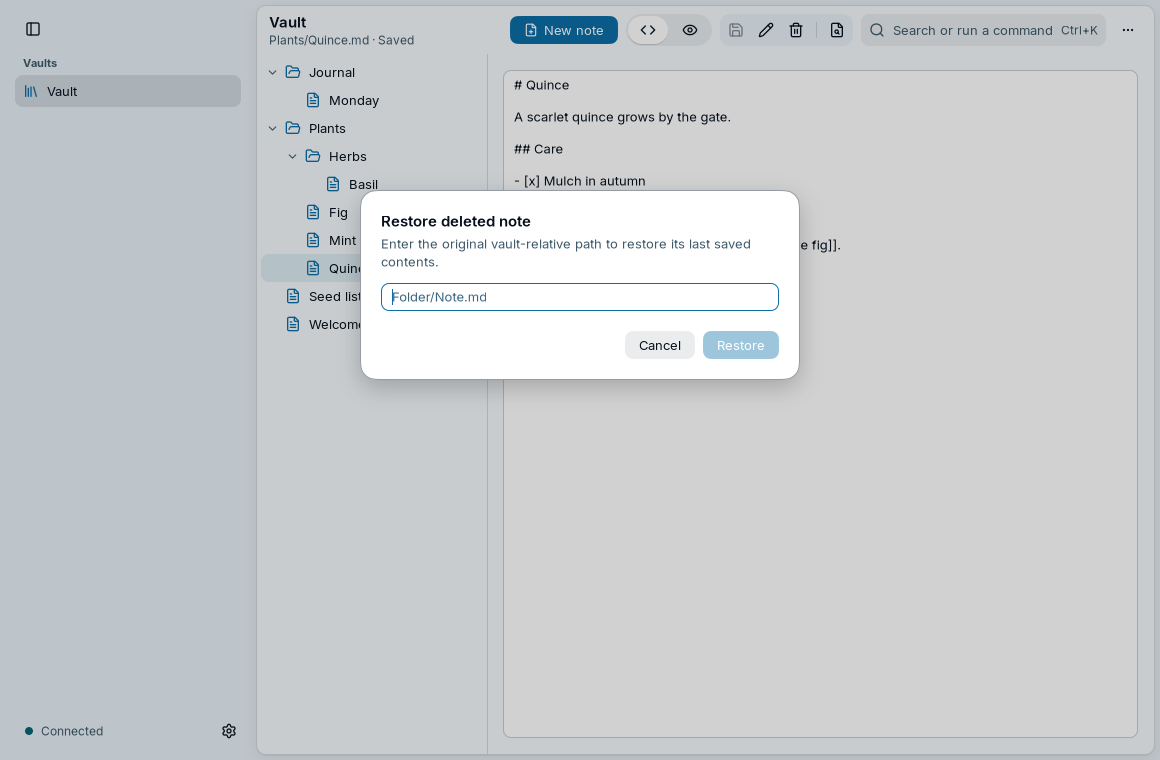
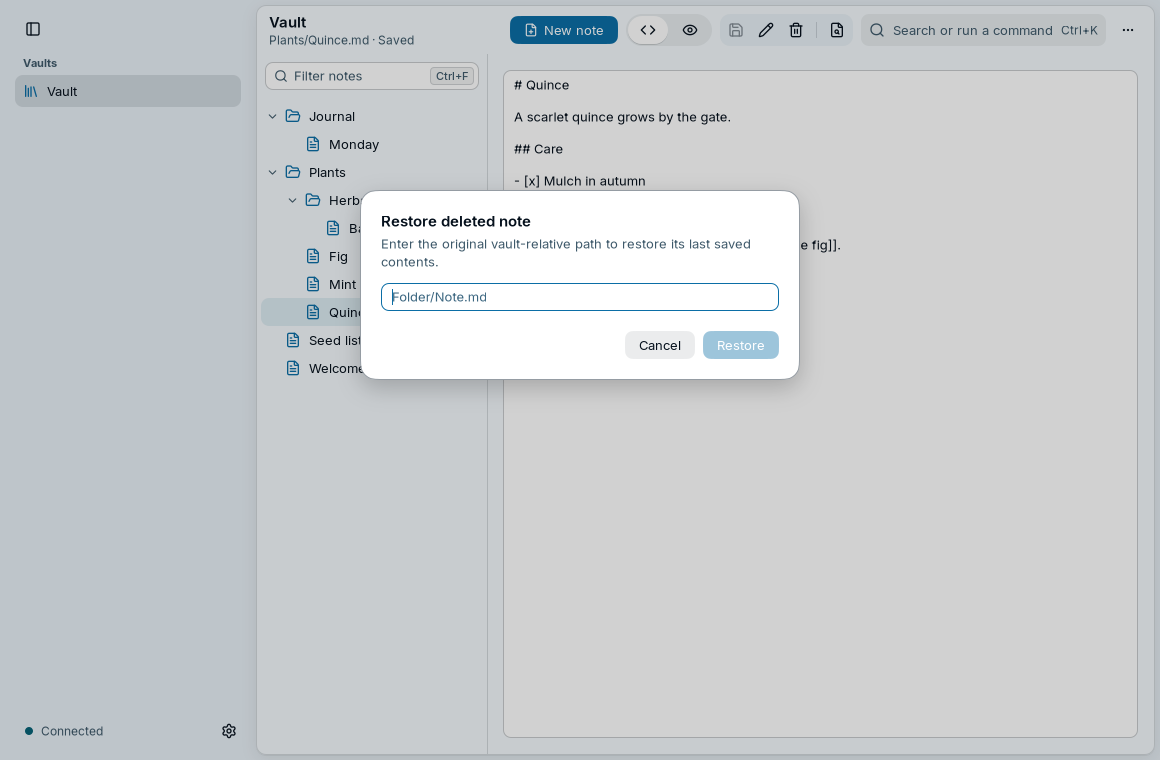
feat(nsgo): keep the window and filter the notes tree
The device keeps the window's size, its place where the platform
reports one, and the navigation's width, and a start shows the window
as it was left. A field over the notes tree leaves the notes whose
title or path holds its words, and mod+F puts the keyboard in it.

Changed region(s): [[0.2172, 0.0908, 0.3414, 0.5145], [0.3724, 0.0908, 0.4034, 0.1211]]

diff --git a/cmd/frostnotes-nsgo/window_test.go b/cmd/frostnotes-nsgo/window_test.go
@@ -1,0 +1,104 @@
+//go:build linux && integration
+
+package main
+
+import (
+	"encoding/json"
+	"slices"
+	"testing"
+	"time"
+
+	"github.com/frostyard/frostui/workspaceui"
+	"github.com/nsgo-dev/nsgo/core"
+	"github.com/nsgo-dev/nsgo/nsgotest"
+)
+
+// desktopWindow is a desktop's environment, where the window is the app's
+// to keep.
+var desktopWindow = nsgotest.Environment(core.Environment{OS: "linux", Idiom: core.IdiomDesktop, PixelRatio: 1})
+
+// TestWindowSizeIsKept checks that a change of the window's size is kept
+// on the device, and that a size under the least one is not.
+func TestWindowSizeIsKept(t *testing.T) {
+	app, _ := startVault(t, map[string]string{"First.md": "First\n"}, 1150, 760, desktopWindow)
+	app.WaitFor("label:First", 10*time.Second)
+	if _, kept := app.Storage().GetItem(windowKey); kept {
+		t.Fatal("the window's first size is kept before it changed")
+	}
+	kept := func() (k keptWindow, ok bool) {
+		text, ok := app.Storage().GetItem(windowKey)
+		return k, ok && json.Unmarshal([]byte(text), &k) == nil
+	}
+	app.Resize(980, 700)
+	waitTimers(t, app, 5*time.Second, func() bool { k, ok := kept(); return ok && k.Width == 980 && k.Height == 700 })
+	app.Resize(300, 200)
+	app.Advance(time.Second)
+	if k, _ := kept(); k.Width != 980 || k.Height != 700 {
+		t.Errorf("a window 300 by 200 replaced the kept size: %+v", k)
+	}
+}
+
+// TestKeptWindowAndPanesShowAtStart checks that a start shows the window
+// at the size the device kept and the navigation at its kept width, and
+// that a drag of the navigation's edge is kept.
+func TestKeptWindowAndPanesShowAtStart(t *testing.T) {
+	app, _ := startVault(t, map[string]string{"First.md": "First\n"}, 1150, 760, desktopWindow,
+		nsgotest.Storage(map[string]string{windowKey: `{"Width":1000,"Height":720}`, panesKey: `{"Navigation":300}`}))
+	app.WaitFor("label:First", 10*time.Second)
+	app.WaitUntil(5*time.Second, func() bool { return app.Find("id:sidebar-panel").Bounds().Size.Width == 300 })
+	// Headless, the host records what the app asked of its window and
+	// keeps its size; a real window takes the size.
+	if nsgotest.Target() == "" {
+		asked := slices.ContainsFunc(app.Window, func(r nsgotest.WindowRequest) bool {
+			return r.Action == nsgotest.WindowSetFrame && r.Frame.Width == 1000 && r.Frame.Height == 720
+		})
+		if !asked {
+			t.Errorf("the app did not ask for its kept window, 1000 by 720: %+v", app.Window)
+		}
+	} else {
+		app.WaitUntil(5*time.Second, func() bool {
+			size := app.Find("id:frame").Bounds().Size
+			return size.Width == 1000 && size.Height == 720
+		})
+	}
+	app.Drag("label:Resize navigation", core.Point{X: 40})
+	app.Advance(time.Second)
+	var saved workspaceui.PaneWidths
+	app.WaitUntil(5*time.Second, func() bool {
+		text, _ := app.Storage().GetItem(panesKey)
+		return json.Unmarshal([]byte(text), &saved) == nil && saved.Navigation > 300
+	})
+}
+
+// TestFilterNarrowsTheTree checks the filter over the notes tree: it
+// leaves the notes whose title or path holds its words, inside their
+// folders, says so when none does, and mod+F puts the keyboard in it from
+// the editor.
+func TestFilterNarrowsTheTree(t *testing.T) {
+	app, _ := startVault(t, map[string]string{"Welcome.md": "Welcome\n", "Plants/Fig.md": "Fig\n", "Plants/Herbs/Basil.md": "Basil\n"}, 1150, 760)
+	row := func(name string) string { return "id:notes-tree >> label:" + name }
+	app.WaitFor(row("Basil"), 10*time.Second)
+	const filter = "label:Filter notes"
+	app.Type(filter, "bas")
+	app.WaitForGone(row("Fig"), 5*time.Second)
+	for _, name := range []string{"Plants", "Herbs", "Basil"} {
+		app.Find(row(name))
+	}
+	if app.Exists(row("Welcome")) {
+		t.Error("a note the filter does not match is in the tree")
+	}
+	// A folder's name matches the notes under it, by their path.
+	app.Clear(filter)
+	app.Type(filter, "herbs")
+	app.WaitFor(row("Basil"), 5*time.Second)
+	app.Clear(filter)
+	app.Type(filter, "quince")
+	app.WaitFor("text:No matching notes", 5*time.Second)
+	app.Clear(filter)
+	app.WaitFor(row("Welcome"), 5*time.Second)
+	app.Press(row("Fig"))
+	app.WaitFor("text:Plants/Fig.md · Saved", 5*time.Second)
+	app.Focus("label:Markdown source")
+	app.Key("mod+f")
+	app.WaitUntil(5*time.Second, func() bool { return app.Find(filter).Focused })
+}

diff --git a/cmd/frostnotes-nsgo/tree.go b/cmd/frostnotes-nsgo/tree.go
@@ -4,6 +4,7 @@ import (
 	"maps"
 	"path"
 	"slices"
+	"strings"
 
 	"github.com/frostyard/frostnotes/api"
 	"github.com/frostyard/frostui/workspaceui"
@@ -89,13 +90,17 @@ func buildTree(files []api.NoteEntry) noteTree {
 // notesTree is the tree of the vault's notes. A press of a note's row
 // opens it, and the row of the note that is open is the chosen one.
 func (w *workspace) notesTree(cx *core.Scope) core.Node {
-	tree := core.NewMemoFunc(cx, func() noteTree { return buildTree(w.files.Get()) }, func(noteTree, noteTree) bool { return false })
+	// The tree holds the notes the filter's words match, all of them with
+	// no word.
+	tree := core.NewMemoFunc(cx, func() noteTree { return buildTree(matching(w.files.Get(), w.filter.Get())) }, func(noteTree, noteTree) bool { return false })
+	filtering := func() bool { return strings.TrimSpace(w.filter.Get()) != "" }
 	// A vault's folders start open, and those the user closes stay closed
-	// while the vault is shown.
+	// while the vault is shown. Another vault starts with no filter.
 	closed := core.NewSignalFunc(cx, map[folder]bool{}, func(_, _ map[folder]bool) bool { return false })
 	cx.Effect(func() {
 		w.vault.Get()
 		closed.Set(map[folder]bool{})
+		w.filter.Set("")
 	})
 	selection := ui.NewSelection(cx, false)
 	w.chosen = selection
@@ -130,7 +135,7 @@ func (w *workspace) notesTree(cx *core.Scope) core.Node {
 			w.open(p)
 		}
 	})
-	return ui.Tree{Label: "Notes", TestID: "notes-tree", Style: ui.FillRest, Selection: selection, ToggleLabel: "Expand", RowStyleFunc: workspaceui.SoftRows(cx),
+	notes := ui.Tree{Label: "Notes", TestID: "notes-tree", Style: ui.FillRest, Selection: selection, ToggleLabel: "Expand", RowStyleFunc: workspaceui.SoftRows(cx),
 		Roots: func() []any { return tree.Get().roots },
 		Children: func(k any) []any {
 			if f, ok := k.(folder); ok {
@@ -139,8 +144,9 @@ func (w *workspace) notesTree(cx *core.Scope) core.Node {
 			return nil
 		},
 		Expanded: func(k any) bool {
+			// A filter shows every folder that holds a match, open.
 			f, ok := k.(folder)
-			return ok && !closed.Get()[f]
+			return ok && (filtering() || !closed.Get()[f])
 		},
 		OnExpand: func(k any, open bool) {
 			f, ok := k.(folder)
@@ -185,6 +191,36 @@ func (w *workspace) notesTree(cx *core.Scope) core.Node {
 			if !w.listed.Get() {
 				return ui.Skeleton{Lines: 4, Label: "Loading notes"}
 			}
+			if filtering() {
+				return workspaceui.EmptyState{Icon: lucide.Search, Title: "No matching notes", Hint: "No note's title or path holds these words."}
+			}
 			return workspaceui.EmptyState{Icon: lucide.FileText, Title: "No notes yet", Hint: "New note adds the first."}
 		})}
+	// The filter stands over the tree, as the search field over FrostMail's
+	// list and the filter over PocketGo's sessions do. mod+F focuses it.
+	return core.View{Style: ui.FillRest, Children: []core.Node{
+		core.View{Style: core.Style{Padding: core.All(workspaceui.SpaceS)}, Children: []core.Node{
+			workspaceui.SearchField{Placeholder: "Filter notes", Keys: "mod+f", Ref: w.filterInput, Value: w.filter.Get, OnChange: w.filter.Set}}},
+		notes}}
+}
+
+// matching are the notes whose title or path holds every word of the
+// filter, whatever its case: every note for no word.
+func matching(files []api.NoteEntry, filter string) []api.NoteEntry {
+	words := strings.Fields(strings.ToLower(filter))
+	if len(words) == 0 {
+		return files
+	}
+	var out []api.NoteEntry
+	for _, f := range files {
+		text := strings.ToLower(f.Title + "\n" + f.Path)
+		holds := true
+		for _, word := range words {
+			holds = holds && strings.Contains(text, word)
+		}
+		if holds {
+			out = append(out, f)
+		}
+	}
+	return out
 }

diff --git a/cmd/frostnotes-nsgo/window.go b/cmd/frostnotes-nsgo/window.go
@@ -1,0 +1,91 @@
+package main
+
+import (
+	"encoding/json"
+	"time"
+
+	"github.com/frostyard/frostui/workspaceui"
+	"github.com/nsgo-dev/nsgo/core"
+	"github.com/nsgo-dev/nsgo/desktop"
+)
+
+// The window is kept on the device (the kit's standard for an app, rule
+// 8): its size, its place where the platform says it, and the width of
+// the navigation. A start shows the window as it was left. The choice is
+// the device's, as the appearance is, and lives in the client's storage.
+
+const (
+	windowKey = "window"
+	panesKey  = "pane-widths"
+	// The least size of a kept window: under it the window opens at its
+	// own first size.
+	minWidth, minHeight core.Points = 480, 360
+)
+
+// keptWindow is the window as the device keeps it.
+type keptWindow struct {
+	Width, Height core.Points
+	X, Y          core.Points
+	// Placed says X and Y are a place the platform reported.
+	Placed bool
+}
+
+func load[T any](cx *core.Scope, key string) (T, bool) {
+	var v T
+	text, ok := cx.Storage().GetItem(key)
+	if !ok || json.Unmarshal([]byte(text), &v) != nil {
+		var zero T
+		return zero, false
+	}
+	return v, true
+}
+
+func (w *workspace) save(key string, v any) {
+	text, err := json.Marshal(v)
+	if err == nil {
+		err = w.cx.Storage().SetItem(key, string(text))
+	}
+	if err != nil {
+		w.problem.Set(err.Error())
+	}
+}
+
+// keepWindow shows the window as the device kept it, and keeps it as it
+// changes. A browser's window is the browser's, and is not kept.
+func (w *workspace) keepWindow(cx *core.Scope) {
+	if !desktop.IsAvailable(cx) {
+		return
+	}
+	if k, ok := load[keptWindow](cx, windowKey); ok && k.Width >= minWidth && k.Height >= minHeight {
+		desktop.SetWindowFrame(cx, core.WindowFrame{Width: k.Width, Height: k.Height, X: k.X, Y: k.Y, Move: k.Placed})
+	}
+	var pending func() bool
+	first := true
+	cx.Effect(func() {
+		size, frame, large := cx.Env().Window(), desktop.Frame(cx), desktop.Maximized(cx)
+		if first {
+			// The size the window opens at is not a change of it.
+			first = false
+			return
+		}
+		// A maximized window keeps the size it had before.
+		if large || size.Width < minWidth || size.Height < minHeight {
+			return
+		}
+		k := keptWindow{Width: size.Width, Height: size.Height, X: frame.X, Y: frame.Y, Placed: frame.Move}
+		if pending != nil {
+			pending()
+		}
+		// A drag of the window's edge reports many sizes: keep the last.
+		pending = cx.AfterFunc(300*time.Millisecond, func() { w.save(windowKey, k) })
+	})
+}
+
+// paneWidths are the kept widths of the shell's panes, and savePanes keeps
+// them as a drag of a divider changes them.
+func (w *workspace) paneWidths() workspaceui.PaneWidths {
+	widths, _ := load[workspaceui.PaneWidths](w.cx, panesKey)
+	return widths
+}
+
+func (w *workspace) savePanes(widths workspaceui.PaneWidths) { w.save(panesKey, widths) }

diff --git a/cmd/frostnotes-nsgo/main.go b/cmd/frostnotes-nsgo/main.go
@@ -21,7 +21,7 @@ import (
 func main() {
 	finish := desktopLifetime()
 	defer finish()
-	nsgo.Run(root, nsgo.WindowSize(1160, 760))
+	nsgo.Run(root, nsgo.WindowSize(1160, 760), nsgo.WindowConstraints(core.WindowConstraints{MinWidth: minWidth, MinHeight: minHeight}))
 }
 
 type environment struct{ *core.Scope }
@@ -73,6 +73,10 @@ type workspace struct {
 	hasSettings bool
 	// contentWidth is the width of the pane under the toolbar.
 	contentWidth *core.Signal[core.Points]
+	// filter is what the field over the notes tree holds, and filterInput
+	// the field, which mod+F focuses.
+	filter      *core.Signal[string]
+	filterInput *core.Ref
 }
 
 // connected is what connection holds while notesd answers.
@@ -111,6 +115,8 @@ func root(cx *core.Scope) core.Node {
 		settings:   core.NewSignal(cx, false),
 
 		contentWidth: core.NewSignal(cx, core.Points(0)),
+		filter:       core.NewSignal(cx, ""),
+		filterInput:  &core.Ref{},
 	}
 	w.session.OnChange(func() {
 		if w.session.State() == session.Connected {
@@ -141,6 +147,7 @@ func root(cx *core.Scope) core.Node {
 	})
 	w.bindNoteActions()
 	w.bindSettingsKey()
+	w.keepWindow(cx)
 	w.session.Start()
 	// The explorer outlives the views shown in its place, so a look at
 	// Settings leaves the tree, the editor and its history as they were.
@@ -155,6 +162,7 @@ func root(cx *core.Scope) core.Node {
 	settings := w.settingsView(cx)
 	w.hasSettings = settings != nil
 	shell := workspaceui.Shell{
+		Widths: w.paneWidths(), OnWidthsChange: w.savePanes,
 		Brand: "FrostNotes", Header: []core.Node{w.header()}, Actions: []core.Node{w.actions(cx)},
 		SidebarFooter: []core.Node{w.sidebarFoot()},
 		Sections:      w.vaultSections, Selected: func() string { return strconv.FormatInt(w.vault.Get(), 10) },

diff --git a/cmd/frostnotes-nsgo/find.go b/cmd/frostnotes-nsgo/find.go
@@ -58,6 +58,23 @@ func (w *workspace) bindNoteActions() {
 	for key, action := range map[string]string{"mod+n": newNote, "mod+k": quickOpen, "mod+o": quickOpen, "mod+shift+f": vaultSearch} {
 		w.cx.OnKey(key, func() { w.showAction(action) })
 	}
+	// mod+F is the search of what is shown: the filter over the notes
+	// tree. It answers from the editor too, which has the keyboard most of
+	// the time.
+	w.cx.OnKeyWith("mod+f", core.KeyOptions{When: core.KeyAlways}, w.focusFilter)
+}
+
+// focusFilter puts the keyboard in the filter over the notes tree. Where
+// the window shows the note alone, it shows the tree first.
+func (w *workspace) focusFilter() {
+	if w.vault.GetUntracked() == 0 || w.action.GetUntracked() != "" {
+		return
+	}
+	w.settings.Set(false)
+	if w.cx.Env().Window().Width < 620 && w.preview.GetUntracked() {
+		w.preview.Set(false)
+	}
+	w.cx.Post(func() { w.filterInput.Focus() })
 }
 func (w *workspace) noteDialog(cx *core.Scope) core.Node {
 	action := w.action.Get()

diff --git a/docs/design/app.md b/docs/design/app.md
@@ -69,10 +69,11 @@ The client keeps to the kit's standard for an app (frostui's `docs/specs/workspa
 - **Settings** (`vaults_native.go`) is NSGo's settings view, shown in place of the vault by the gear at the navigation's foot or mod+, and left by Done or a press of a vault's row. Its rows start the vault forms, show the shown vault's sync, and hold the device's choices. The tree and the editor are kept while it shows (`core.NewHolder`), so the open note and its undo history are there after it. Until 2026-11-24 this was a dialog, Manage vaults, of filled buttons. The Lodge build has no Settings.
 - **The navigation's foot** is the kit's `ConnectionItem`: a dot, green while notesd answers, and the connection's line.
 - **States.** The tree shows a skeleton until the vault's notes have been read, then its notes or the kit's `EmptyState`.
-- **Keys.** mod+K and mod+O are the palette, mod+N New note, mod+Shift+F Search vault, mod+S Save, mod+, Settings.
+- **Keys.** mod+K and mod+O are the palette, mod+F the notes' filter, mod+N New note, mod+Shift+F Search vault, mod+S Save, mod+, Settings.
 - **No look written as a number** (`TestNoLiteralLooks`), but 1 the kit has no token for: a Markdown heading's size in live preview. A padding takes the kit's spacing.
 
-Not done of the standard: the window's size, place and pane widths are not kept (rule 8), and nothing answers mod+F.
+- **The window** (`window.go`) is kept on the device, in the client's storage: its size, its place where the platform reports one, and the navigation's width. A start shows it as it was left. A size under 480 by 360 is not kept, nor a maximized window's, and the window does not go under that size. A browser's window is not kept. The notes tree's width is not kept: the kit's `FileExplorer` reports no change of it.
+- **The filter** over the notes tree (`tree.go`) leaves the notes whose title or path holds its words, inside their folders, all open. mod+F puts the keyboard in it, from the editor too.
 
 On Linux, Settings creates a folder, registers an existing folder, or joins a hub vault. Pairing shows the approval code issued by notesd and waits for the hub operator. Both desktop clients use the same pairing, retry and cancellation logic. Removing a registration leaves its files on disk. The desktop status shows the selected vault’s sync state. The Flatpak applies its background preference when the last frontend exits. Lodge displays the server’s registered vaults.
 
